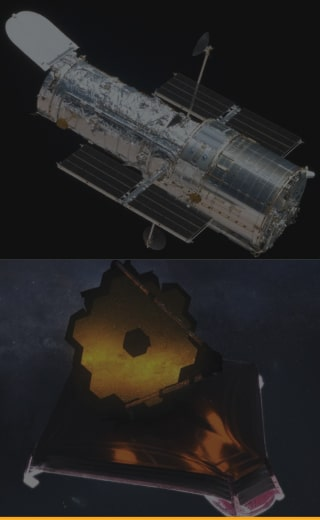
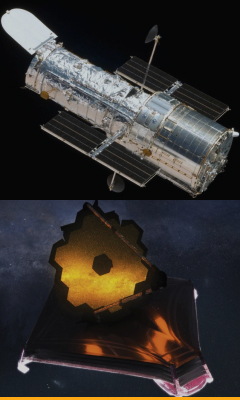
Adicionei o web stories

diff --git a/src/css/app.min.css b/src/css/app.min.css
@@ -1,1 +1,1 @@
-*{margin:0;border:0;padding:0;box-sizing:border-box;font-family:"Poppins",sans-serif;color:#e9e8e8}body{background:#252627;overflow-x:hidden;overflow-y:auto;display:grid;place-items:center}body button{background:none;cursor:pointer}body button:focus{outline:none}body button.more{border:.07rem solid #e9e8e8;padding:.45rem 1.25rem .38rem 1.25rem;font-weight:500;letter-spacing:.08rem;border-radius:.1rem;margin-left:-1rem;margin-top:.8rem;font-size:.9rem;background:#e9e8e8;color:#252627}body main{display:grid;place-items:center;width:100vw}body main section{padding:6rem 0 6rem 0}body main section,body main section article{display:flex;flex-wrap:wrap;justify-content:center;align-items:center}.infos-languages,.infos-languages article:first-child,.infos-languages article:first-child div,.infos-languages article:first-child button,header,.infos-languages article:last-child{display:flex;align-items:center}.infos-languages,header{width:100vw;position:absolute;left:0;z-index:3}.infos-languages{justify-content:center;gap:37.6rem;background:#1b1c1d;top:0;height:2rem;padding:.5rem 0rem;align-items:center baseline}.infos-languages p,.infos-languages button{font-size:.7rem}.infos-languages article:first-child{align-items:center;justify-content:space-between;width:38.7rem;margin-left:-1.1rem;opacity:.8}.infos-languages article:first-child div,.infos-languages article:first-child button{gap:.2rem}.infos-languages article:first-child button img:last-child{position:relative;left:.1rem;top:.08rem}.infos-languages article:last-child{gap:.6rem;margin-top:.4rem}.infos-languages article:last-child button{opacity:.6;transition:.2s}.infos-languages article:last-child button:hover{transition:.2s}.infos-languages article:last-child button.active,.infos-languages article:last-child button:hover{opacity:1}.infos-languages article:last-child button:after{content:"";display:block;margin:left;margin-top:.3rem;width:0%;height:.07rem;background:#e9e8e8;transition:.2s;opacity:.8}.infos-languages article:last-child button:hover:after,.infos-languages article:last-child button.active:after{width:100%}header{background:linear-gradient(90deg, rgba(27, 28, 29, 0.8) 0%, #0B3A7A 100%);justify-content:center;top:2rem;padding:.6rem 1rem}header .logo{width:7rem}header li,header button{font-size:.9rem}header li{cursor:pointer;padding:.2rem;transition:.2s}header li:nth-child(2){padding-bottom:.3rem}header li:nth-child(2):after,header li:nth-child(2):hover:after{width:0%;height:0%}header li:after{content:"";display:block;margin:left;width:0%;height:.12rem;margin-top:0rem;transition:.2s;opacity:1;background:#e9e8e8}header li:hover:after,header li.active:after{width:100%}header li img{margin:.1rem auto auto .1rem;width:1.1rem;margin-left:0rem}header .toggle-menu{display:none}header nav,header ul,header div,header li:nth-child(2){display:flex;align-items:center}header ul,header div{justify-content:center}header div{display:flex;justify-content:space-between;align-items:center;width:81.25rem;margin-left:-1rem}header nav{justify-content:space-between;width:52.5rem}header nav ul{gap:1rem;list-style:none}header nav div{gap:1rem;width:-webkit-max-content;width:-moz-max-content;width:max-content}header nav div button:first-child{font-weight:400}header nav div button:first-child:after{content:"";display:block;margin:left;width:0%;height:.12rem;margin-top:0rem;transition:.2s;opacity:1;background:#e9e8e8}header nav div button:first-child:hover:after,header nav div button:first-child.active:after{width:100%}header nav div button:last-child{font-weight:500;border-radius:.2rem;background:#e9e8e8;color:#252627;padding:.1rem .75rem .17rem .75rem;transition:.2s;border:.1rem solid #e9e8e8}@-webkit-keyframes show-container{from{opacity:0;transform:translateY(-2rem)}to{opacity:1;transform:translateY(0rem)}}@keyframes show-container{from{opacity:0;transform:translateY(-2rem)}to{opacity:1;transform:translateY(0rem)}}@-webkit-keyframes blur-effect{0%{filter:blur(0px)}50%{filter:blur(2px)}100%{filter:blur(0px)}}@keyframes blur-effect{0%{filter:blur(0px)}50%{filter:blur(2px)}100%{filter:blur(0px)}}@-webkit-keyframes scroll-f-child{0%{margin-top:0rem;opacity:1}50%{opacity:.5;margin-top:.5rem}100%{opacity:1;margin-top:0rem}}@keyframes scroll-f-child{0%{margin-top:0rem;opacity:1}50%{opacity:.5;margin-top:.5rem}100%{opacity:1;margin-top:0rem}}@-webkit-keyframes scroll-l-child{0%{margin-top:-2.9rem;opacity:1}50%{opacity:.2;margin-top:-2.4rem}100%{opacity:1;margin-top:-2.9rem}}@keyframes scroll-l-child{0%{margin-top:-2.9rem;opacity:1}50%{opacity:.2;margin-top:-2.4rem}100%{opacity:1;margin-top:-2.9rem}}main .background-jws{position:fixed;top:0;left:0;z-index:-2;width:100vw;height:100vh;-o-object-fit:cover;object-fit:cover;-webkit-animation:blur-effect 2.1s linear forwards;animation:blur-effect 2.1s linear forwards}main .presentation{height:100vh;width:100vw;-webkit-animation:show-container 1.2s linear forwards;animation:show-container 1.2s linear forwards;text-align:center}main .presentation article{margin-top:12vh;gap:1.7rem;width:34rem}main .presentation h1{font-weight:500;font-size:3rem;letter-spacing:.2rem;line-height:3.8rem;color:#f1efef}main .presentation span{font-size:1.3rem;width:28rem;letter-spacing:.1rem;font-weight:300}main .presentation button{margin:-0.2rem 0 0 -1rem;display:flex;justify-content:center;align-items:center;width:10rem;padding:0rem 4rem 0rem 4rem;flex-wrap:wrap;overflow:hidden;height:5rem}main .presentation button div{background:#e9e8e8;width:1.8rem;height:1.8rem;-webkit-clip-path:polygon(50% 90%, 100% 40%, 100% 50%, 50% 100%, 0 50%, 0 40%);clip-path:polygon(50% 90%, 100% 40%, 100% 50%, 50% 100%, 0 50%, 0 40%)}main .presentation button div:first-child{-webkit-animation:scroll-f-child 2.7s linear infinite;animation:scroll-f-child 2.7s linear infinite}main .presentation button div:last-child{margin-top:-2.9rem;-webkit-animation:scroll-l-child 2.7s linear infinite;animation:scroll-l-child 2.7s linear infinite}main .intro{background:#f1efef;gap:2rem;width:100vw;display:grid;place-items:center}main .intro p{color:#252627;font-size:1.3rem;font-weight:300;opacity:.9}main .intro p:first-child{width:35rem}main .intro p:last-child{width:38rem}main .intro img{margin-left:-0.8rem}main .vantagens{width:100vw;display:grid;place-items:center;gap:5rem;padding:4.15rem 0 4.15rem 0}main .vantagens h1{font-weight:500}main .vantagens h1{color:rgba(253,169,22,.8)}main .vantagens h1:first-child{letter-spacing:.2rem;font-size:2.5rem}main .vantagens article{display:flex;justify-content:space-between;align-items:center;gap:12.5rem;margin-left:-2.3rem}main .vantagens article h1{font-size:1.5rem;font-weight:400}main .vantagens article p{width:13.2rem;font-size:1.2rem;font-weight:200;margin-top:-0.4rem}main .vantagens div{display:grid;place-items:center;gap:.8rem}main .faq{width:100vw;background:#f1efef;display:grid;place-items:left;gap:3rem}main .faq h1,main .faq h2,main .faq p{color:#252627}main .faq h1{font-size:3rem;font-weight:500}main .faq dl,main .faq h1{margin-left:-10.8rem}main .faq dt{cursor:pointer;display:flex;align-items:center;gap:.7rem;margin-left:2.5rem}main .faq dt h2{font-size:1.7rem;font-weight:400}main .faq dt h2:before{content:"";width:.3rem;height:1rem;background:rgba(253,169,22,.6);position:absolute;display:block;z-index:1;margin-top:.6rem;margin-left:-0.8rem}main .faq dt img{transform:rotate(0deg)}main .faq dt.active img{transform:rotate(180deg)}main .faq dd{display:grid;gap:1.1rem;margin-top:.6rem;margin-left:4rem;font-size:1.2rem;overflow:hidden;height:0rem}main .faq dd.active{height:-webkit-max-content;height:-moz-max-content;height:max-content}main .faq dd p{max-width:54rem}main .faq dd img{width:32rem}main .faq #margin{margin-top:2rem}/*# sourceMappingURL=app.min.css.map */
+*{margin:0;border:0;padding:0;box-sizing:border-box;font-family:"Poppins",sans-serif;color:#e9e8e8}body{background:#252627;overflow-x:hidden;overflow-y:auto;display:grid;place-items:center}body button{background:none;cursor:pointer}body button:focus{outline:none}body button.more{border:.07rem solid #e9e8e8;padding:.45rem 1.25rem .38rem 1.25rem;font-weight:500;letter-spacing:.08rem;border-radius:.1rem;margin-left:-1rem;margin-top:.8rem;font-size:.9rem;background:#e9e8e8;color:#252627}body main{display:grid;place-items:center;width:100vw}body main section{padding:6rem 0 6rem 0}body main section,body main section article{display:flex;flex-wrap:wrap;justify-content:center;align-items:center}.infos-languages,.infos-languages article:first-child,.infos-languages article:first-child div,.infos-languages article:first-child button,header,.infos-languages article:last-child{display:flex;align-items:center}.infos-languages,header{width:100vw;position:absolute;left:0;z-index:3}.infos-languages{justify-content:center;gap:37.6rem;background:#1b1c1d;top:0;height:2rem;padding:.5rem 0rem;align-items:center baseline}.infos-languages p,.infos-languages button{font-size:.7rem}.infos-languages article:first-child{align-items:center;justify-content:space-between;width:38.7rem;margin-left:-1.1rem;opacity:.8}.infos-languages article:first-child div,.infos-languages article:first-child button{gap:.2rem}.infos-languages article:first-child button img:last-child{position:relative;left:.1rem;top:.08rem}.infos-languages article:last-child{gap:.6rem;margin-top:.4rem}.infos-languages article:last-child button{opacity:.6;transition:.2s}.infos-languages article:last-child button:hover{transition:.2s}.infos-languages article:last-child button.active,.infos-languages article:last-child button:hover{opacity:1}.infos-languages article:last-child button:after{content:"";display:block;margin:left;margin-top:.3rem;width:0%;height:.07rem;background:#e9e8e8;transition:.2s;opacity:.8}.infos-languages article:last-child button:hover:after,.infos-languages article:last-child button.active:after{width:100%}header{background:linear-gradient(90deg, rgba(27, 28, 29, 0.8) 0%, #0B3A7A 100%);justify-content:center;top:2rem;padding:.6rem 1rem}header .logo{width:7rem}header li,header button{font-size:.9rem}header li{cursor:pointer;padding:.2rem;transition:.2s}header li:nth-child(2){padding-bottom:.3rem}header li:nth-child(2):after,header li:nth-child(2):hover:after{width:0%;height:0%}header li:after{content:"";display:block;margin:left;width:0%;height:.12rem;margin-top:0rem;transition:.2s;opacity:1;background:#e9e8e8}header li:hover:after,header li.active:after{width:100%}header li img{margin:.1rem auto auto .1rem;width:1.1rem;margin-left:0rem}header .toggle-menu{display:none}header nav,header ul,header div,header li:nth-child(2){display:flex;align-items:center}header ul,header div{justify-content:center}header div{display:flex;justify-content:space-between;align-items:center;width:81.25rem;margin-left:-1rem}header nav{justify-content:space-between;width:52.5rem}header nav ul{gap:1rem;list-style:none}header nav div{gap:1rem;width:-webkit-max-content;width:-moz-max-content;width:max-content}header nav div button:first-child{font-weight:400}header nav div button:first-child:after{content:"";display:block;margin:left;width:0%;height:.12rem;margin-top:0rem;transition:.2s;opacity:1;background:#e9e8e8}header nav div button:first-child:hover:after,header nav div button:first-child.active:after{width:100%}header nav div button:last-child{font-weight:500;border-radius:.2rem;background:#e9e8e8;color:#252627;padding:.1rem .75rem .17rem .75rem;transition:.2s;border:.1rem solid #e9e8e8}@-webkit-keyframes show-container{from{opacity:0;transform:translateY(-2rem)}to{opacity:1;transform:translateY(0rem)}}@keyframes show-container{from{opacity:0;transform:translateY(-2rem)}to{opacity:1;transform:translateY(0rem)}}@-webkit-keyframes blur-effect{0%{filter:blur(0px)}50%{filter:blur(2px)}100%{filter:blur(0px)}}@keyframes blur-effect{0%{filter:blur(0px)}50%{filter:blur(2px)}100%{filter:blur(0px)}}@-webkit-keyframes scroll-f-child{0%{margin-top:0rem;opacity:1}50%{opacity:.5;margin-top:.5rem}100%{opacity:1;margin-top:0rem}}@keyframes scroll-f-child{0%{margin-top:0rem;opacity:1}50%{opacity:.5;margin-top:.5rem}100%{opacity:1;margin-top:0rem}}@-webkit-keyframes scroll-l-child{0%{margin-top:-2.9rem;opacity:1}50%{opacity:.2;margin-top:-2.4rem}100%{opacity:1;margin-top:-2.9rem}}@keyframes scroll-l-child{0%{margin-top:-2.9rem;opacity:1}50%{opacity:.2;margin-top:-2.4rem}100%{opacity:1;margin-top:-2.9rem}}main .background-jws{position:fixed;top:0;left:0;z-index:-2;width:100vw;height:100vh;-o-object-fit:cover;object-fit:cover;-webkit-animation:blur-effect .8s linear forwards;animation:blur-effect .8s linear forwards}main .presentation{height:100vh;width:100vw;-webkit-animation:show-container .6s linear forwards;animation:show-container .6s linear forwards;text-align:center}main .presentation article{margin-top:12vh;gap:1.7rem;width:34rem}main .presentation h1{font-weight:500;font-size:3rem;letter-spacing:.2rem;line-height:3.8rem;color:#f1efef}main .presentation span{font-size:1.3rem;width:28rem;letter-spacing:.1rem;font-weight:300}main .presentation button{margin:-0.2rem 0 0 -1rem;display:flex;justify-content:center;align-items:center;width:10rem;padding:0rem 4rem 0rem 4rem;flex-wrap:wrap;overflow:hidden;height:5rem}main .presentation button div{background:#e9e8e8;width:1.8rem;height:1.8rem;-webkit-clip-path:polygon(50% 90%, 100% 40%, 100% 50%, 50% 100%, 0 50%, 0 40%);clip-path:polygon(50% 90%, 100% 40%, 100% 50%, 50% 100%, 0 50%, 0 40%)}main .presentation button div:first-child{-webkit-animation:scroll-f-child 2.7s linear infinite;animation:scroll-f-child 2.7s linear infinite}main .presentation button div:last-child{margin-top:-2.9rem;-webkit-animation:scroll-l-child 2.7s linear infinite;animation:scroll-l-child 2.7s linear infinite}main .intro{background:#f1efef;gap:2rem;width:100vw;display:grid;place-items:center}main .intro p{color:#252627;font-size:1.3rem;font-weight:300;opacity:.9}main .intro p:first-child{width:35rem}main .intro p:last-child{width:38rem}main .intro img{margin-left:-0.8rem}main .vantagens,main .stories{width:100vw;display:grid;place-items:center;gap:3rem;padding:4.15rem 0 4.15rem 0}main .vantagens h1{font-weight:500}main .vantagens h1{color:rgba(253,169,22,.8)}main .vantagens h1:first-child{letter-spacing:.2rem;font-size:2.5rem}main .vantagens article{display:flex;justify-content:space-between;align-items:center;gap:12.5rem;margin-left:-2.3rem}main .vantagens article h1{font-size:1.5rem;font-weight:400}main .vantagens article p{width:13.2rem;font-size:1.2rem;font-weight:200;margin-top:-0.4rem}main .vantagens div{display:grid;place-items:center;gap:.8rem}main .faq{width:100vw;background:#f1efef;display:grid;place-items:left;gap:3rem}main .faq h1,main .faq h2,main .faq p{color:#252627}main .faq h1{font-size:3rem;font-weight:500}main .faq dl,main .faq h1{margin-left:-10.8rem}main .faq dt{cursor:pointer;display:flex;align-items:center;gap:.7rem;margin-left:2.5rem}main .faq dt h2{font-size:1.7rem;font-weight:400}main .faq dt h2:before{content:"";width:.3rem;height:1rem;background:rgba(253,169,22,.6);position:absolute;display:block;z-index:1;margin-top:.6rem;margin-left:-0.8rem}main .faq dt img{transform:rotate(0deg)}main .faq dt.active img{transform:rotate(180deg)}main .faq dd{display:grid;gap:1.1rem;margin-top:.6rem;margin-left:4rem;font-size:1.2rem;overflow:hidden;height:0rem}main .faq dd.active{height:-webkit-max-content;height:-moz-max-content;height:max-content}main .faq dd p{max-width:54rem}main .faq dd img{width:32rem}main .faq #margin{margin-top:2rem}main .stories{background:#252627;gap:3rem}main .stories h1{font-size:2rem;font-weight:500;color:rgba(253,169,22,.8);letter-spacing:.2rem}main .stories article{gap:1.7rem;margin-left:-1rem}main .stories article div{cursor:pointer;overflow:hidden;display:grid}main .stories article div:before{content:"";background:url("../assets/svg/2-home/5-toggle-stories.svg") no-repeat;width:2rem;height:2rem;display:block;position:absolute;z-index:1;margin:.5rem 0 0 .5rem}main .stories article div h2,main .stories article div span{z-index:1;margin-left:.5rem;-webkit-user-select:none;-moz-user-select:none;-ms-user-select:none;user-select:none}main .stories article div h2{font-weight:500;letter-spacing:.1rem;font-size:1.3rem;color:#f1efef;margin-top:-6.7rem}main .stories article div span{margin-top:-4.5rem;max-width:13rem;font-weight:300;font-size:1rem}main .stories article div,main .stories article div img,main .stories article div:hover{transition:.6s}main .stories article div img{filter:brightness(40%)}main .stories article div:hover img{filter:brightness(70%);transform:scale(1.3)}/*# sourceMappingURL=app.min.css.map */

diff --git a/src/scss/_home.scss b/src/scss/_home.scss
@@ -10,13 +10,13 @@ main {
     width:100vw;
     height:100vh;
     object-fit:cover;
-    animation:blur-effect 2.1s linear forwards;
+    animation:blur-effect .8s linear forwards;
   }
 
   .presentation {
     height:100vh;
     width:100vw;
-    animation:show-container 1.2s linear forwards;
+    animation:show-container .6s linear forwards;
     text-align:center;
 
     article {
@@ -98,12 +98,15 @@ main {
     }
   }
 
-  .vantagens {
+  .vantagens, .stories {
     width:100vw;
     display:grid;
     place-items:center;
-    gap:5rem;
+    gap:3rem;
     padding:4.15rem 0 4.15rem 0;
+  }
+
+  .vantagens {
 
     h1 {
       font-weight:500;
@@ -227,5 +230,77 @@ main {
       margin-top:2rem;
     }
 
+  }
+
+  .stories {
+    background:$main-black;
+    gap:3rem;
+
+    h1 {
+      font-size:2rem;
+      font-weight:500;
+      color:$main-yellow;
+      letter-spacing:.2rem;
+    }
+
+    article {
+      gap:1.7rem;
+      margin-left:-1rem;
+
+      div {
+        cursor:pointer;
+        overflow:hidden;
+        display:grid;
+
+        &:before {
+          content:'';
+          background:url('../assets/svg/2-home/5-toggle-stories.svg') no-repeat;
+          width:2rem;
+          height:2rem;
+          display:block;
+          position:absolute;
+          z-index:1;
+          margin:.5rem 0 0 .5rem;
+        }
+
+        h2, span {
+          z-index:1;
+          margin-left:.5rem;
+          user-select:none;
+        }
+
+        h2 {
+          font-weight:500;
+          letter-spacing:.1rem;
+          font-size:1.3rem;
+          color:$normal-white;
+          margin-top:-6.7rem;
+        }
+
+        span {
+          margin-top:-4.5rem;
+          max-width:13rem;
+          font-weight:300;
+          font-size:1rem;
+        }
+
+        &, img, &:hover {
+          transition:.6s;
+        }
+
+        img {
+          filter:brightness(40%);
+        }
+
+        &:hover {
+          img {
+            filter:brightness(70%);
+            transform:scale(1.3);
+          }
+
+        }
+      }
+
+    }
   }
 }

diff --git a/src/components/Home/Stories.jsx b/src/components/Home/Stories.jsx
@@ -1,9 +1,48 @@
 import React from 'react'
 
+import Jw from '../../assets/imgs/1-home/1-stories/1-james-webb/0.jpg'
+import Mirror from '../../assets/imgs/1-home/1-stories/2-mirror/0.jpg'
+
+import Hubble from '../../assets/imgs/1-home/1-stories/3-hubble-jws/0.jpg'
+import Pictures from '../../assets/imgs/1-home/1-stories/4-pictures/0.jpg'
+
 const Stories = () => {
   return (
     <section className='stories'>
+      <h1>Web Stories</h1>
 
+      <article>
+        <div>
+          <img src={ Jw }/> 
+
+          <h2>James Webb</h2>
+          <span>O motivo do telescópio ter recebido esse nome</span>
+        </div>
+
+        <div>
+          <img src={ Mirror }/> 
+
+          <h2>Espelho dourado</h2>
+          <span>Como foi equipado o espelho do JWST</span>
+        </div>
+
+        
+        <div>
+          <img src={ Hubble }/> 
+
+          <h2>Comparação</h2>
+          <span>Hubble x JWST - Qual a principal vantagem?</span>
+        </div>
+
+        <div>
+          <img src={ Pictures }/> 
+
+          <h2>Primeiras</h2>
+          <span>As primeiras imagens feitas pelo telescópio</span>
+        </div>
+      </article>
+
+      <button className='more'>SAIBA MAIS</button>
     </section>
   )
 }
